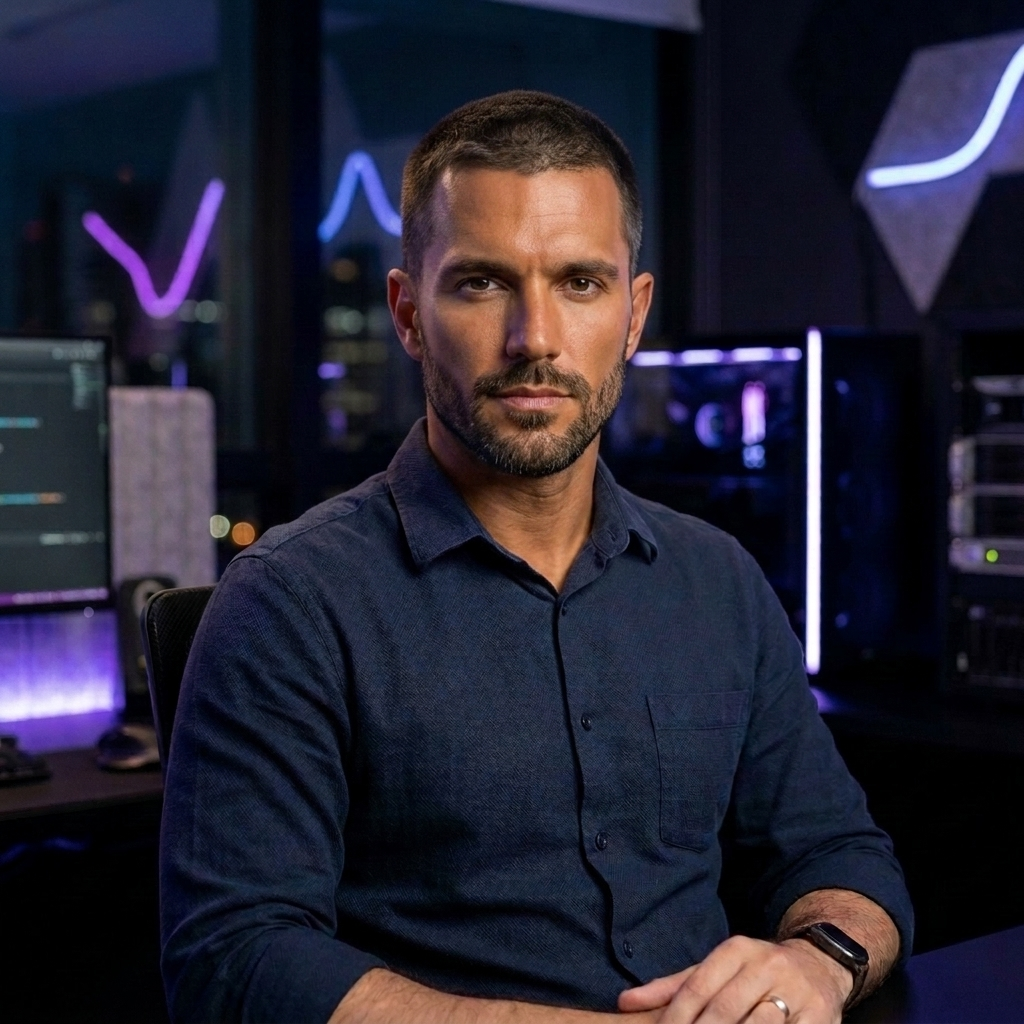
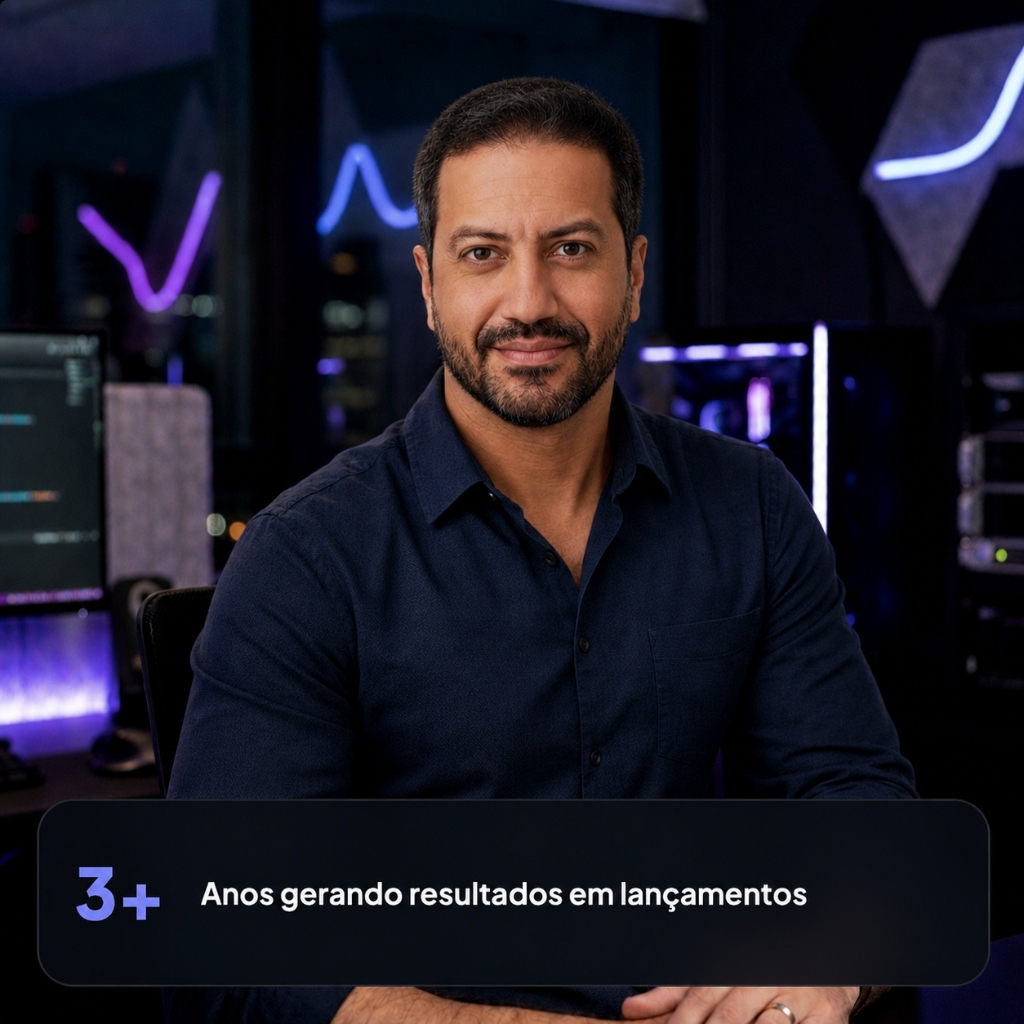
style: substituir foto de perfil pela nova imagem oficial com selo integrado

diff --git a/index.html b/index.html
@@ -185,10 +185,6 @@
             <div class="about-image-wrapper">
                 <div class="about-image-card">
                     <img src="ricardo.png" alt="Ricardo Prazeres de Araújo" width="400" height="400" loading="lazy">
-                    <div class="about-experience-badge">
-                        <span class="exp-number">3+</span>
-                        <span class="exp-text">Anos gerando resultados em lançamentos</span>
-                    </div>
                 </div>
             </div>
             <div class="about-content">

diff --git a/style.css b/style.css
@@ -593,7 +593,6 @@ body {
     width: 100%;
     height: auto;
     display: block;
-    filter: grayscale(15%) contrast(105%);
 }
 
 .about-experience-badge {